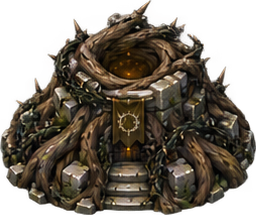
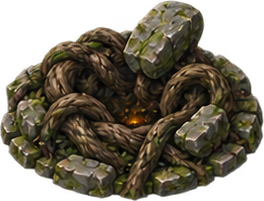
Repaint Roots as a snare: every fusion now follows the name rule
Last of the six duals redone, and the end of the repaint. A wide low nest of bare knotted
roots and thorn-hoops coiled around a dark hollow, lifting slabs of cracked granite as it
spreads. Anchors 48.7-50.5%, proportions 1.19-1.54, cut in one pass.

Roots was already the closest of the six to its own name, so this is the smallest gain of the
repaint and a fair measure of what the name rule actually buys. What went was the building:
the lit archway, the stone stair, the ruined-bastion skeleton it inherited from the five-beat
template. Roots, Brambles, Entangling are three words about what the plant DOES, and with the
thorn-hoops and the coiled snare as the subject the tower reads as the trap it is instead of a
fortified mound with plants on it.

That closes the set. All eleven fusions now take their shape from their name -- Steam an
engine, Lava a volcano, Clay a pit, Well a waterfall, Sun a bronze disc, Roots a snare,
Infernal a rift, Rainbow a prism ring, Dinosaur a fossil beast, Flesh Golem a seated golem,
Pure a plaza -- and the four element towers keep the shared fortress language they were
painted with. A --fill-board run reports art* on all fifteen rows and no two of them look
like the same object dipped in a different colour, which was the complaint that started this.

diff --git a/godottowerdefense/docs/tower-art-prompt.md b/godottowerdefense/docs/tower-art-prompt.md
@@ -10,10 +10,12 @@ roster this recipe is now being used for, and **they no longer follow the recipe
 Read "Fusions are named things" below before generating one: the six element towers keep the
 shared fortress language, and every fusion now takes its shape from ITS OWN NAME instead.
 
-EVERY tower in the game is painted: a `--fill-board` run reports `art*` on all fifteen rows.
-Painted under the NEW name rule: Dinosaur, Steam, Lava, Rainbow, Infernal, Flesh Golem, Pure,
-Clay, Sun, Well. Still on the OLD fusion recipe and queued to be redone as its own name:
-Roots.
+EVERY tower in the game is painted, and every one of the eleven fusions now follows the NAME
+rule: a `--fill-board` run reports `art*` on all fifteen rows, and none of the fusions is a
+fortress any more. Steam is an engine, Lava a volcano, Clay a pit, Well a waterfall, Sun a
+bronze disc, Roots a snare, Infernal a rift, Rainbow a prism ring, Dinosaur a fossil beast,
+Flesh Golem a seated golem, Pure a plaza. The four ELEMENT towers keep the shared fortress
+language and were not touched.
 
 The pipeline around it is in [CLAUDE.md](../../CLAUDE.md) ("Painted tower set"); this file is
 only the prompt.
@@ -367,6 +369,24 @@ or the name walks the set straight into a tall cascade and the proportion rule.
 
 The water wheel survived the repaint. Nothing in the code reads it, but it is the only visual
 the attack-speed aura has, and a turning wheel says haste more plainly than any amount of glow.
+
+### What Roots measured, the last repaint
+
+Anchors 48.7-50.5%, proportions 1.19-1.54, cut in one pass. A wide low nest of bare knotted
+roots and thorn-hoops coiled around a dark hollow, lifting slabs of cracked granite as it
+spreads.
+
+Roots was already close to its name — the old set was a root mass too — so the gain here is
+the smallest of the six repaints, and it is a useful measure of what the name rule actually
+buys. What changed is that the building parts went: the lit archway, the stone stair, the
+ruined-bastion skeleton it inherited from the five-beat template. The name ladder never
+mentioned a building; Roots, Brambles, Entangling are three words about what the PLANT DOES,
+and once the thorn-hoops and the coiled snare became the subject, the tower reads as the trap
+it is rather than as a fortified mound with plants on it.
+
+The canopy ban stayed doubled and specific, and the sheet obeyed it: bare wood and thorn, the
+only green a near-black bramble darker than the map's grass. On a board that is mostly pine
+and undergrowth, that is the whole difference between a tower and a bush.
 
 ### A cutter bug this sheet found
 
